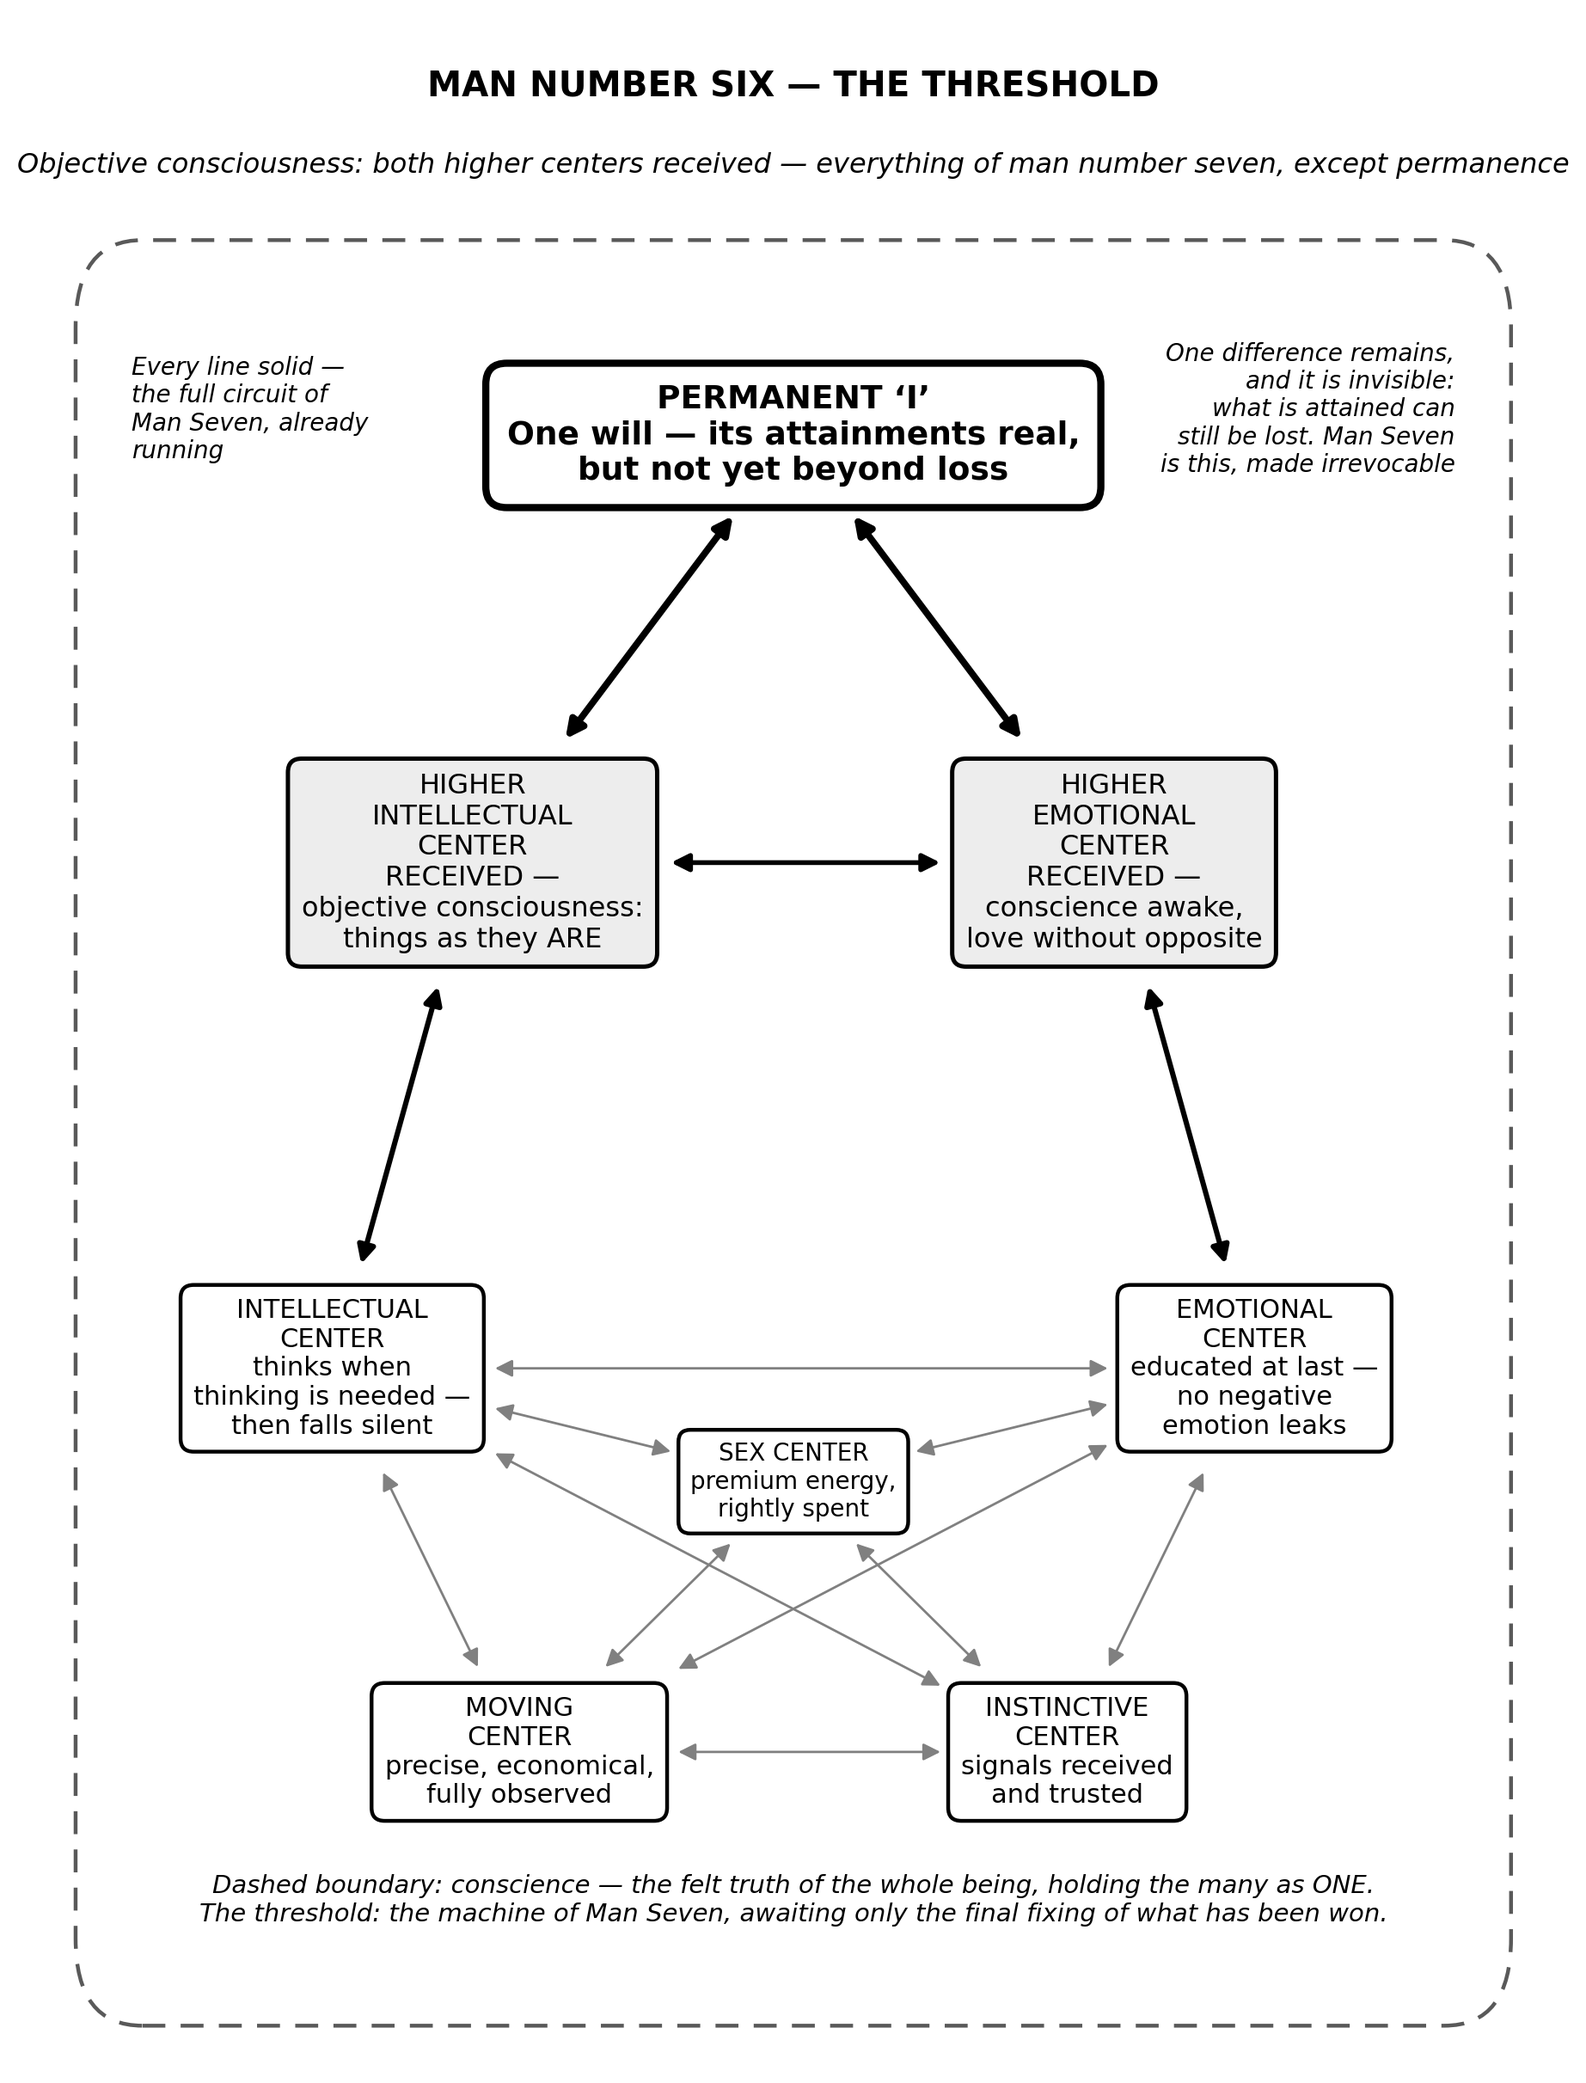
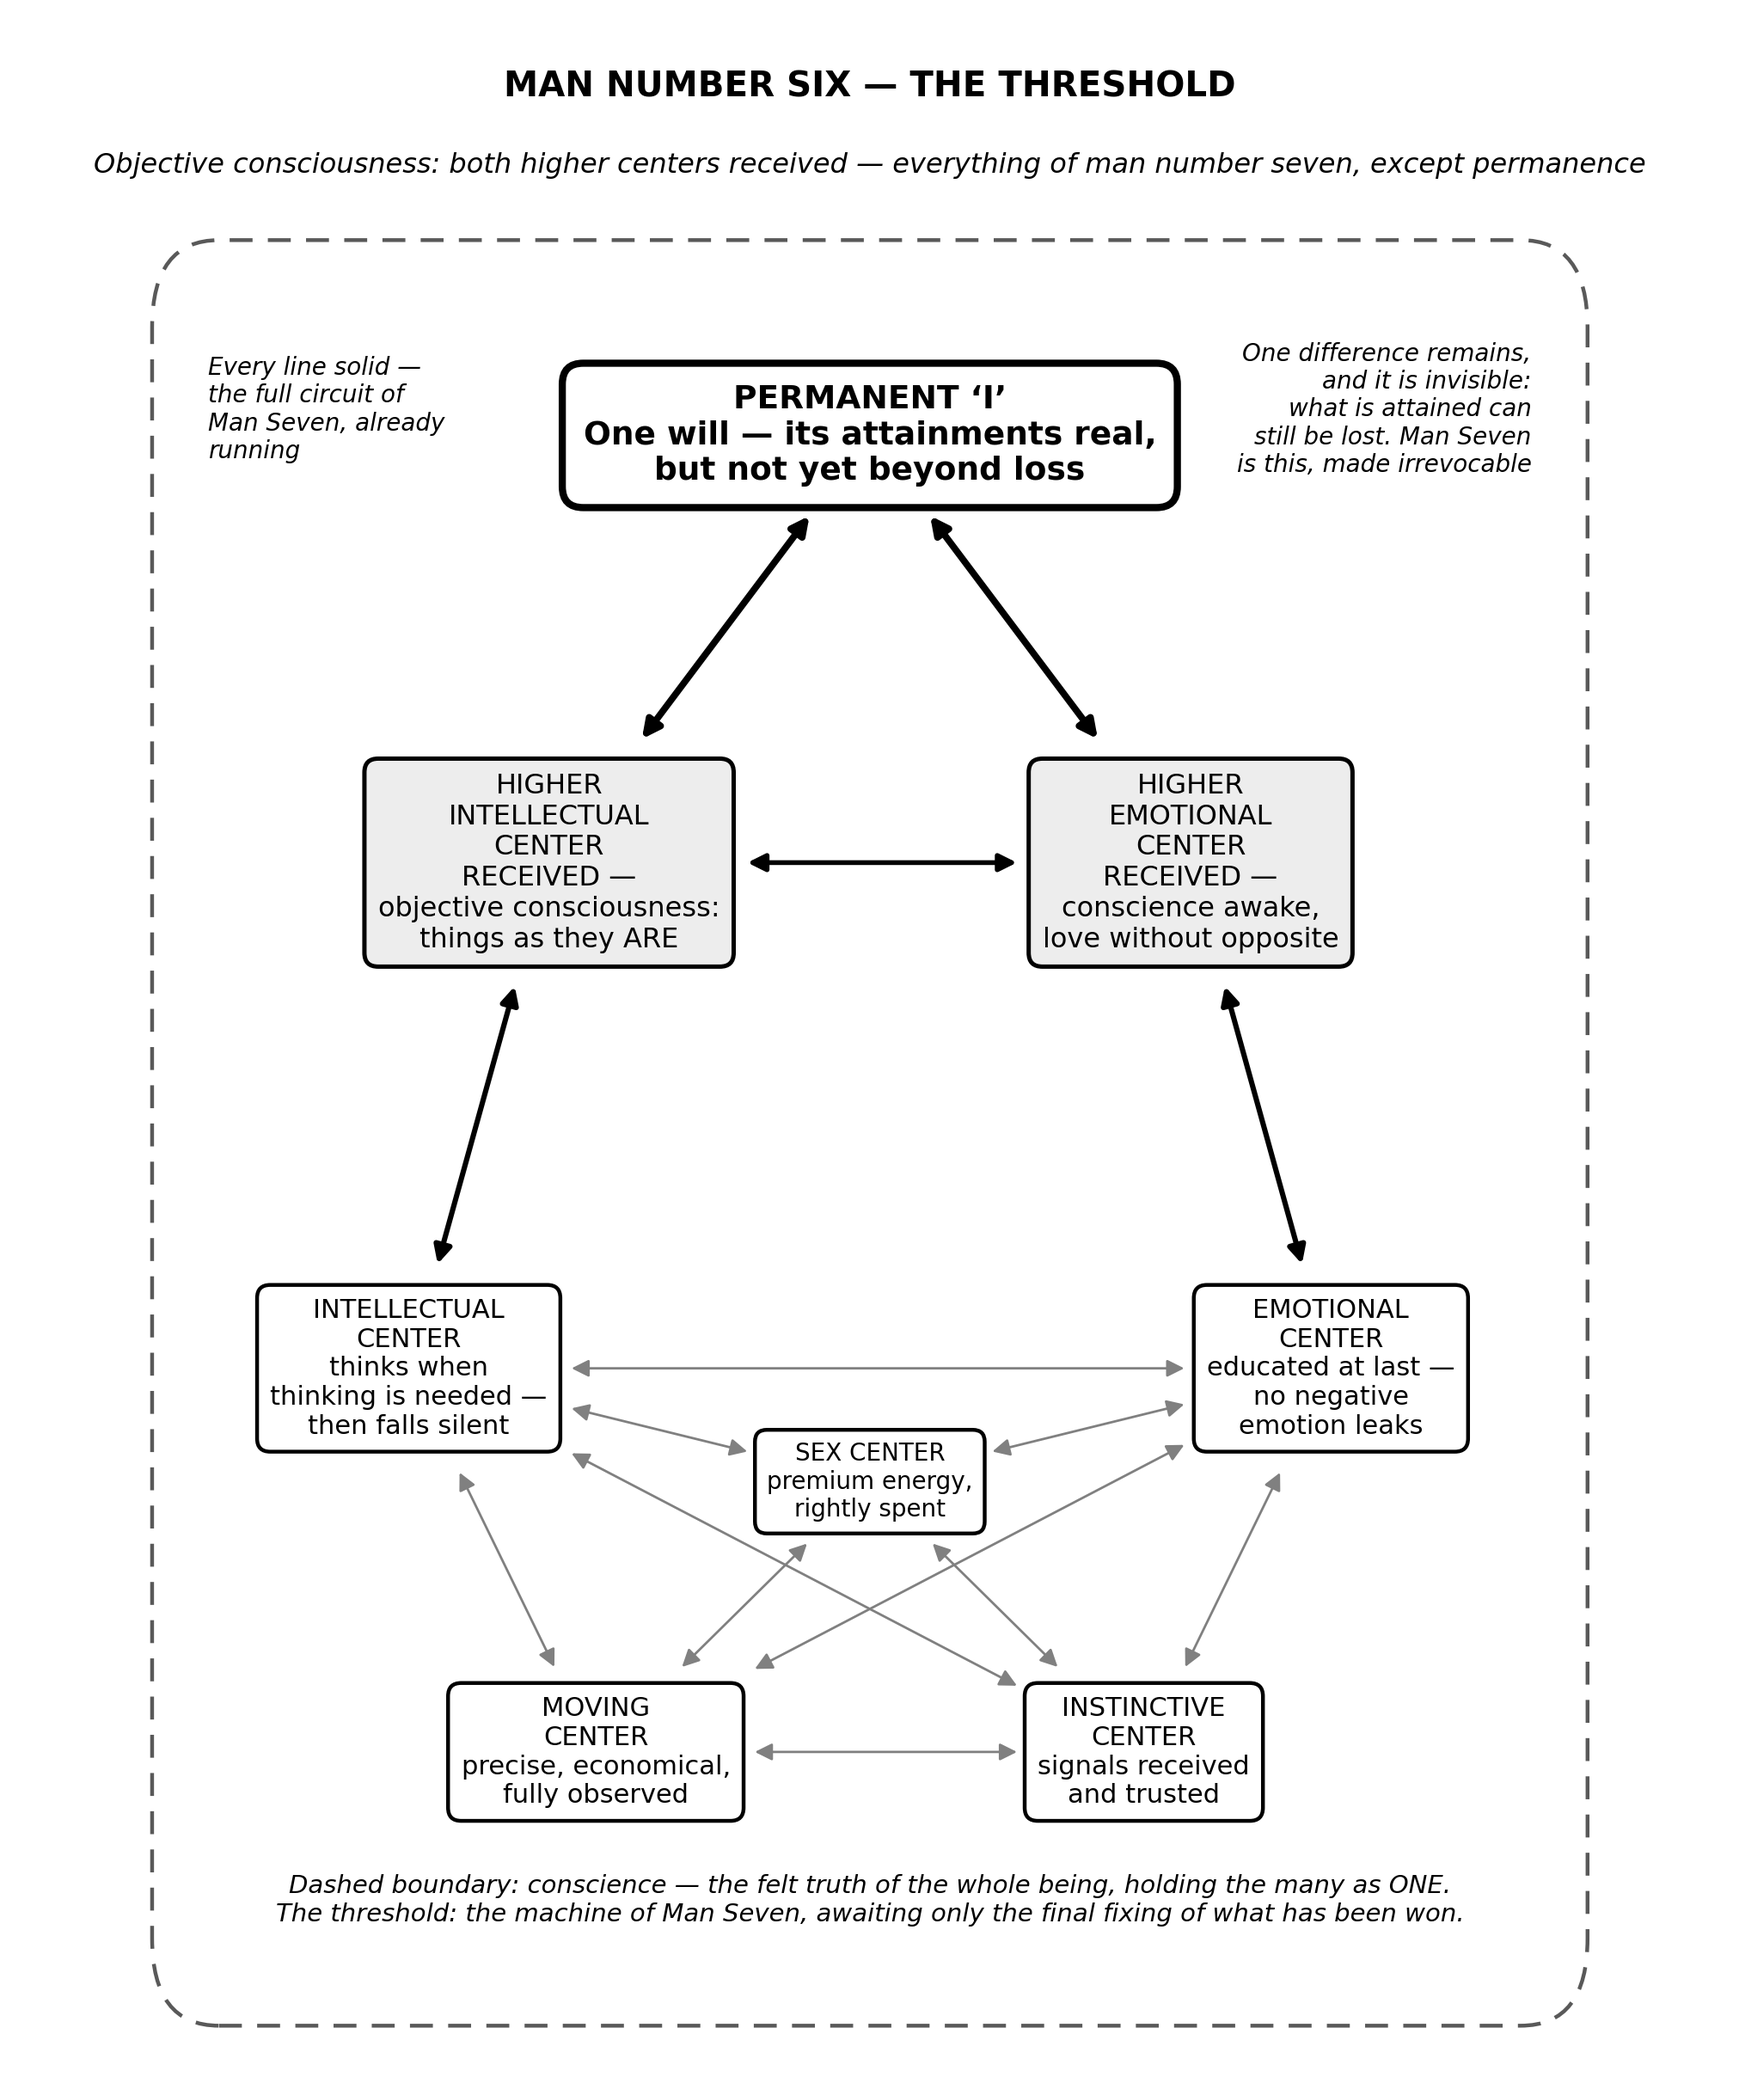
Add files via upload

diff --git a/index.html b/index.html
@@ -32,11 +32,11 @@ section ul{margin:0 0 15px 22px;max-width:800px;}
 section li{margin-bottom:8px;}
 .keyterm{color:var(--gold);}
 .figure{margin:34px auto;text-align:center;}
-.figure img{max-width:100%;background:#fff;border:1px solid rgba(232,200,140,.3);box-shadow:0 12px 40px rgba(0,0,0,.35);}
+.figure img{max-width:min(100%,720px);background:#fff;border:1px solid rgba(232,200,140,.3);box-shadow:0 12px 40px rgba(0,0,0,.35);cursor:zoom-in;}
 .figure figcaption{font-style:italic;font-size:14px;color:var(--slate);margin-top:10px;}
 .gallery{display:grid;grid-template-columns:repeat(auto-fit,minmax(290px,1fr));gap:22px;margin:30px 0;}
 .gallery figure{margin:0;text-align:center;}
-.gallery img{width:100%;background:#fff;border:1px solid rgba(232,200,140,.3);}
+.gallery img{width:100%;aspect-ratio:2023/2423;object-fit:contain;background:#fff;border:1px solid rgba(232,200,140,.3);cursor:zoom-in;}
 .gallery figcaption{font-size:13px;font-style:italic;color:var(--slate);margin-top:8px;}
 .lawtable{width:100%;border-collapse:collapse;margin:26px 0;font-size:14.5px;line-height:1.6;}
 .lawtable th{background:var(--panel);color:var(--gold);text-align:left;padding:12px 14px;font-weight:normal;border:1px solid rgba(232,200,140,.28);}
@@ -56,6 +56,15 @@ padding:14px 26px;border:1px solid var(--gold);color:var(--gold);margin:16px 12p
 .btn:hover{background:rgba(232,200,140,.12);text-decoration:none;}
 footer{border-top:1px solid rgba(232,200,140,.25);margin-top:40px;padding:44px 22px 60px;text-align:center;font-size:13.5px;color:var(--slate);}
 footer p{margin-bottom:8px;}
+#lightbox{position:fixed;inset:0;z-index:100;background:rgba(13,16,36,.94);
+display:none;align-items:center;justify-content:center;padding:20px;cursor:zoom-out;}
+#lightbox.open{display:flex;}
+#lightbox img{max-width:96vw;max-height:92vh;object-fit:contain;background:#fff;
+border:1px solid rgba(232,200,140,.4);box-shadow:0 30px 80px rgba(0,0,0,.6);}
+#lightbox .lbclose{position:fixed;top:18px;right:22px;font-size:34px;line-height:1;
+color:var(--gold);font-family:Georgia,serif;cursor:pointer;background:none;border:none;}
+#lightbox .lbcap{position:fixed;bottom:18px;left:50%;transform:translateX(-50%);
+font-style:italic;font-size:14px;color:var(--moon);text-align:center;max-width:80vw;}
 @media(max-width:820px){
 header.hero{grid-template-columns:1fr;padding-top:52px;}
 header.hero img{order:-1;max-width:250px;}
@@ -147,5 +156,34 @@ section h2{font-size:26px;}
 <p>Text, diagrams, tables, and the Living Enneagram animation are adapted from <em>The Modern Fourth Way: A Practical Workbook for Waking Up — and Discovering What You Actually Are</em>.</p>
 <p>Published by Modern Fourth Way Publishing &middot; Antioch, Illinois &middot; <a href="mailto:info@modernfourthway.org">info@modernfourthway.org</a></p>
 </footer>
+<div id="lightbox" role="dialog" aria-label="Enlarged diagram">
+  <button class="lbclose" aria-label="Close">&times;</button>
+  <img alt="">
+  <div class="lbcap"></div>
+</div>
+<script>
+(function(){
+  var lb=document.getElementById('lightbox');
+  var lbImg=lb.querySelector('img');
+  var lbCap=lb.querySelector('.lbcap');
+  function openLb(img){
+    lbImg.src=img.src; lbImg.alt=img.alt;
+    var fig=img.closest('figure');
+    var cap=fig?fig.querySelector('figcaption'):null;
+    lbCap.textContent=cap?cap.textContent:(img.alt||'');
+    lb.classList.add('open');
+    document.body.style.overflow='hidden';
+  }
+  function closeLb(){
+    lb.classList.remove('open');
+    document.body.style.overflow='';
+  }
+  document.querySelectorAll('.gallery img, .figure img').forEach(function(img){
+    img.addEventListener('click', function(){ openLb(img); });
+  });
+  lb.addEventListener('click', closeLb);
+  document.addEventListener('keydown', function(e){ if(e.key==='Escape') closeLb(); });
+})();
+</script>
 </body>
 </html>
